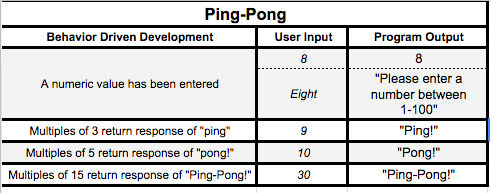
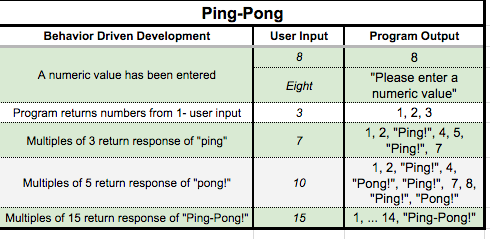
update README with correct BDD

diff --git a/README.md b/README.md
@@ -1,19 +1,26 @@
-# _{Application Name}_
+# _Ping-Pong_
 
-#### _{Brief description of application}, {Date of current version}_
+#### _Epicodus Intro to Programming: Arrays and Looping independent project, June 9, 2017_
 
 #### By _**Michelle Poterek**_
 
 ## Description
 
-<!-- _{This is a detailed description of your application. Its purpose and usage.  Give as much detail as needed to explain what the application does, and any other information you want users or other developers to have. }_ -->
+_This project takes a user's input number and presents a range from 1 to the chosen number. The stipulations are that:_
+* Numbers divisible by 3 are replaced with "Ping!"
+* Numbers divisible by 5 are replaced with "Pong!"
+* Numbers divisible by both 3 and 5, or 15, are replaced with "Ping-Pong!"
+
+
 
 #### Behavior Driven Development
 ![Chart of Behaviors for program to run without bugs](img/behavior.png)
 
 ## Setup/Installation Requirements
 
+In order to clone this repository:
 
+* _open Terminal and type_
 * _$ git clone https://github.com/PoterekM/Epicodus-track.git_
 * _$ cd Epicodus-track_
 * _$ open index.html_
@@ -26,9 +33,6 @@
 * _format_ -->
 <!-- _{Leave nothing to chance! You want it to be easy for potential users, employers and collaborators to run your app. Do I need to run a server? How should I set up my databases? Is there other code this app depends on?}_ -->
 
-## Known Bugs
-
-<!-- _{Are there issues that have not yet been resolved that you want to let users know you know?  Outline any issues thxat would impact use of your application.  Share any workarounds that are in place. }_ -->
 
 ## Support and contact details
 
@@ -36,7 +40,7 @@ _Please feel free to contact me directly via e-mail at poterekm@gmail.com if you
 
 ## Technologies Used
 
-_{Tell me about the languages and tools you used to create this app. Assume that I know you probably used HTML and CSS. If you did something really cool using only HTML, point that out.}_
+_This project utilizes jQuery (version 3.2.1) and Bootstrap for styling._
 
 ### License
 
